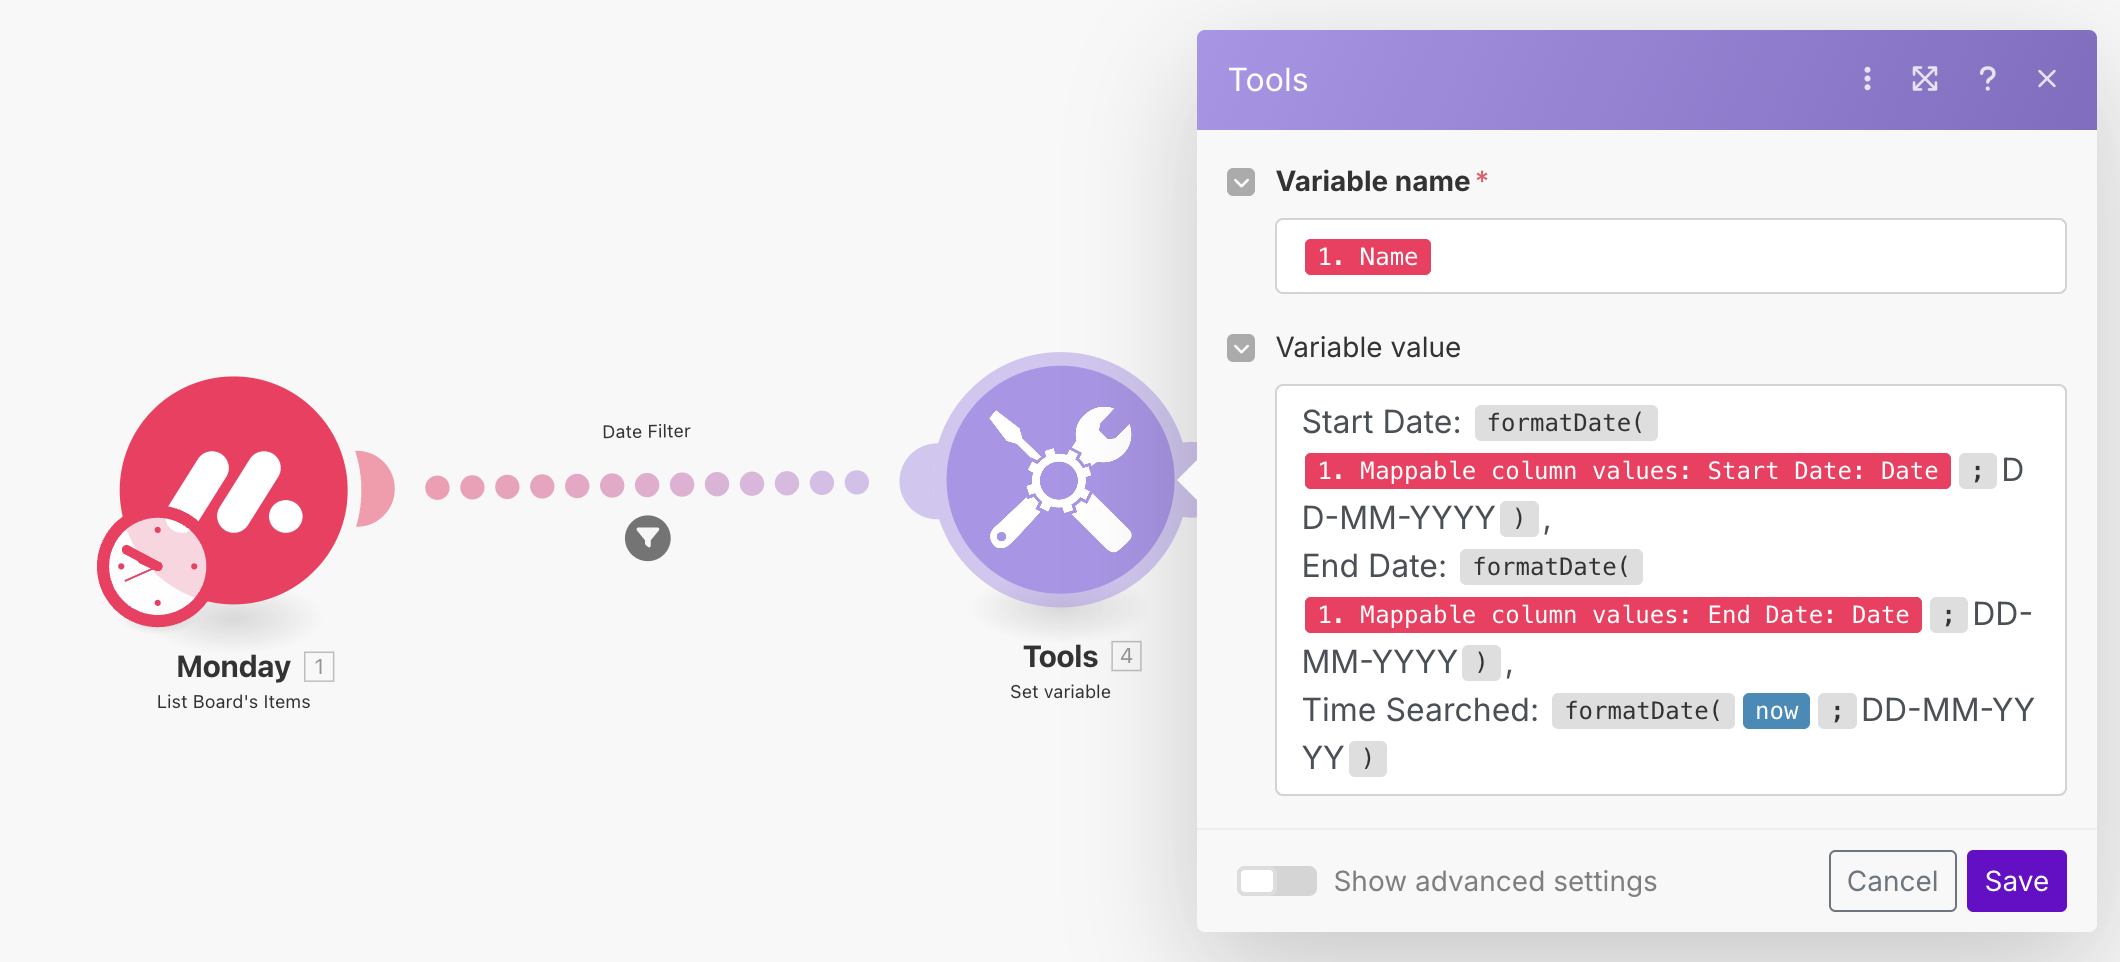
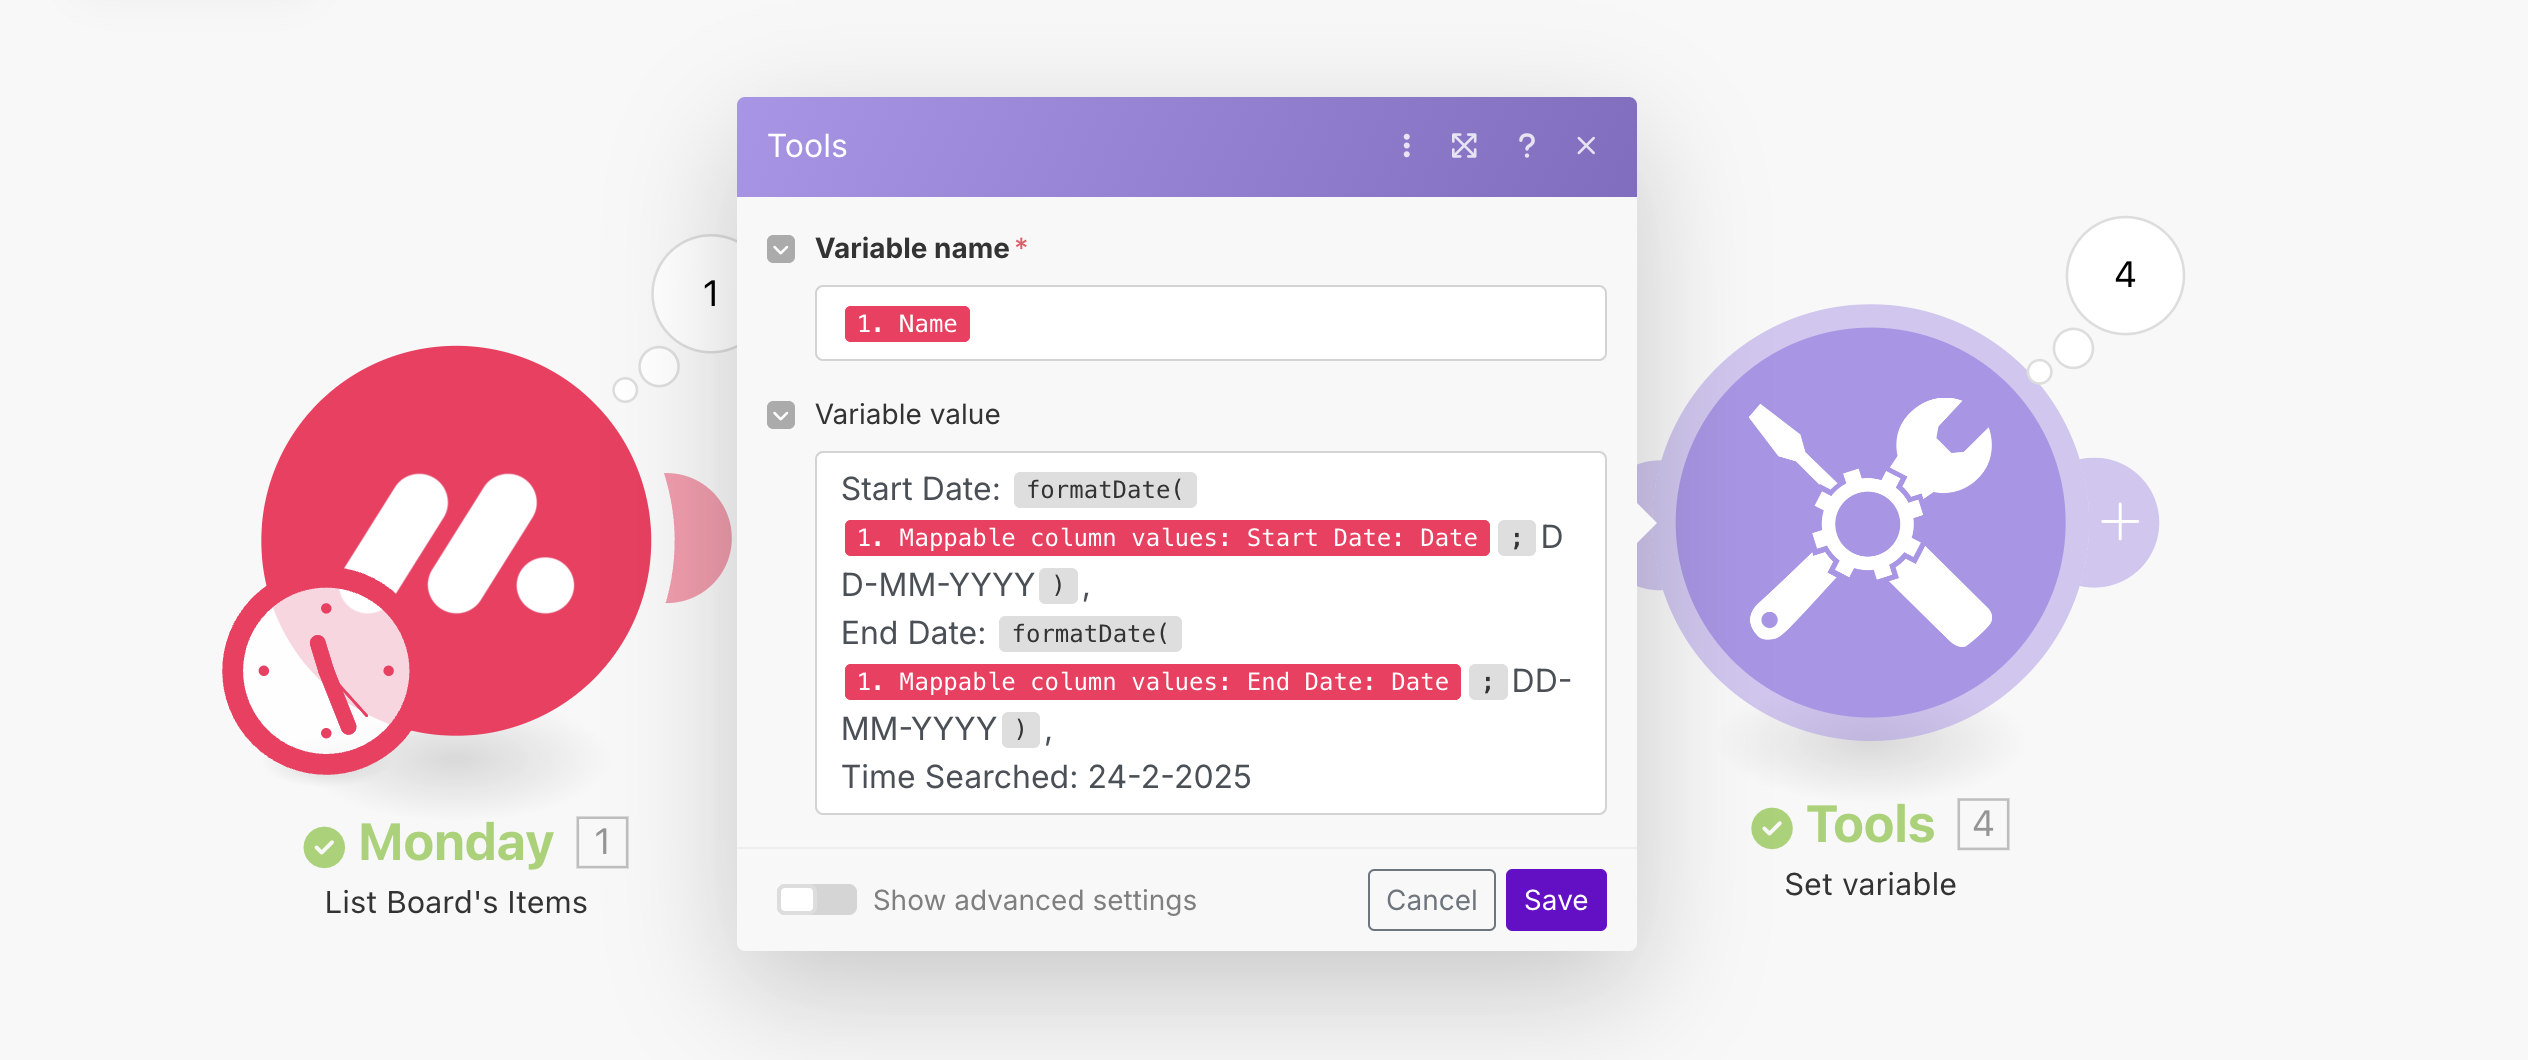
Update docs to clarify variable mapping and API filtering steps
Refined descriptions in `task1.md` and `task3.md` for clarity and consistency. Improved variable mapping explanations and adjusted terminology for API filtering processes using Make.com. Fixed minor formatting issues.

diff --git a/docs/task1.md b/docs/task1.md
@@ -23,8 +23,8 @@ A filter lets items pass through based on the conditions:
 A Set Variable module extracts:
 - `Start Date`
 - `End Date`
-- `Time Searched` (using inbuilt `now`)
+- `Time Searched` (24-02-2025)
 
-(All formated DD-MM-YYYY )
+(All formated DD-MM-YYYY using `formatDate()`)
 
 ![1.3](screenshots/1.3.png)
